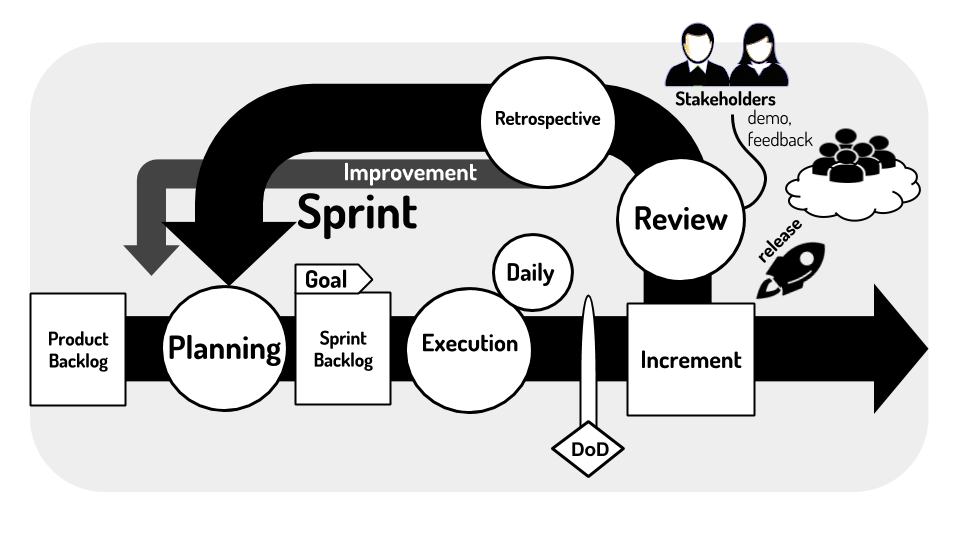
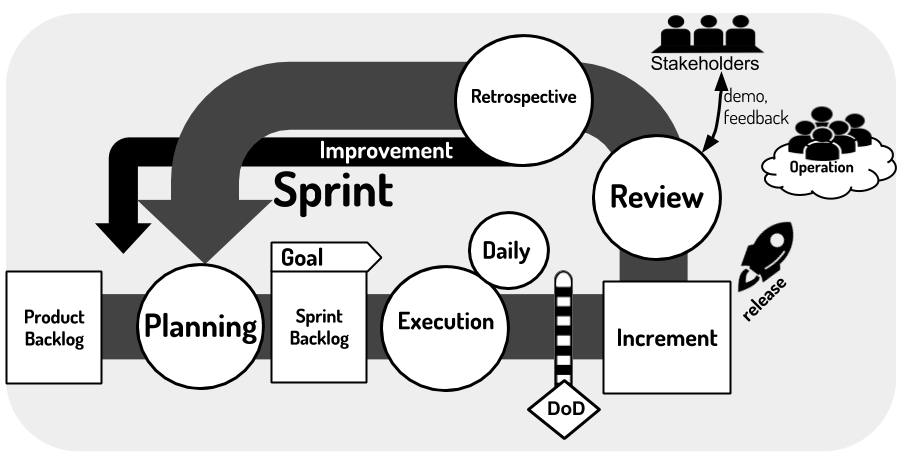
Edit scrum guide images

Changed region(s): [[0.0, 0.0302, 0.989, 0.9655], [0.3091, 0.8147, 0.4018, 0.8448], [0.2163, 0.7543, 0.2472, 0.7845]]

diff --git a/content/complementary.tex b/content/complementary.tex
@@ -4,7 +4,7 @@ Originariamente Scrum no tiene como objetivo dar instrucciones precisas a los eq
 
 \begin{figure}[h]
   \centering
-  \includegraphics[width=0.80\textwidth]{Scrum_Flow_basic_ScrumGuide2017}
+  \includegraphics[width=0.85\textwidth]{Scrum_Flow_basic_ScrumGuide2017}
   \caption{Flujo de Scrum básico según la Guía de Scrum de Scrum.org de 2017}
   \centering
   \label{fig:Scrum_Flow_basic_ScrumGuide2017} %\ref{fig:Scrum_Flow_basic_ScrumGuide2017}
@@ -54,7 +54,7 @@ Otro ejemplo es el refinamiento o “refinement” que no es una ceremonia ofici
 
 También podemos considerar hacer demostraciones “Demo” al PO previas a la review, como instancias donde el equipo junto al PO controlan el DoD y los criterios de aceptación, para controlar una historia antes de que se llegue a la review. De este modo se llega a la review con certeza de cuáles historias se concluyeron satisfactoriamente y cuáles no, evitando que la review se transforme en una instancia de aprobación de historias.
 
-El monitoreo constante de feedback ("Monitor" o Continuous Monitoring) puede transformarse en un proceso pautado, en el cual el equipo se autogestiona para realizar inspección y adaptación constante, monitoreando las principales métricas del producto, KPIs y registros de actividad del producto funcionando en operaciones. Esto es radicalmente importante para pasar de ser un equipo reactivo a proactivo. Aunque también se debe contemplar ser lo suficientemente efectivo en las acciones reactivas de solución de contingencias en operaciones (resolución de fallos o bugs en operaciones). Y para ello se puede tener un proceso consensuado de cómo manejar las OPCON de forma eficiente.
+El monitoreo constante de feedback ("Monitoring" o Continuous Monitoring) puede transformarse en un proceso pautado, en el cual el equipo se autogestiona para realizar inspección y adaptación constante, monitoreando las principales métricas del producto, KPIs y registros de actividad del producto funcionando en operaciones. Esto es radicalmente importante para pasar de ser un equipo reactivo a proactivo. Aunque también se debe contemplar ser lo suficientemente efectivo en las acciones reactivas de solución de contingencias en operaciones (resolución de fallos o bugs en operaciones). Y para ello se puede tener un proceso consensuado de cómo manejar las OPCON de forma eficiente.
 
 Trabajar con Scrum se puede sentir, en ocasiones, la disciplina de la cadencia como sofocante. En algunos contextos puede ser producente tener un respiro para que el equipo trabaje en algo fuera del foco del producto o para trabajar en actividades como refinar el backlog, capacitaciones, innovación, planificaciones, teambuilding, discovery, etcétera. Para eso se usa el concepto de “break”, un lapso de tiempo para hacer estas actividades sin contar como sprint. Una especie de interludio inter-sprints.
 

diff --git a/content/second_page.tex b/content/second_page.tex
@@ -34,7 +34,7 @@
 
 % Version of Build or PDF version
 Primera edición, versión 1.0.0, 2015, Córdoba, Argentina.
-Segunda edición, versión 2.0.0, 20 de Noviembre de 2017, Santiago de Chile.
+Segunda edición, versión 2.0.0, 22 de Noviembre de 2017, Santiago de Chile.
 
 % License text message
 \input{content/license_message}
